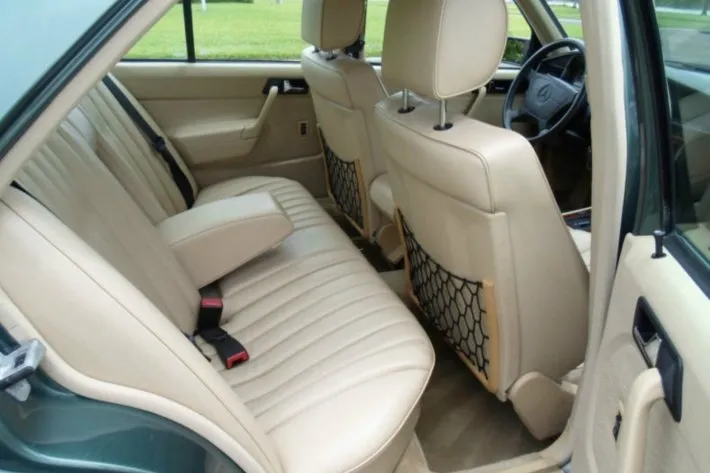
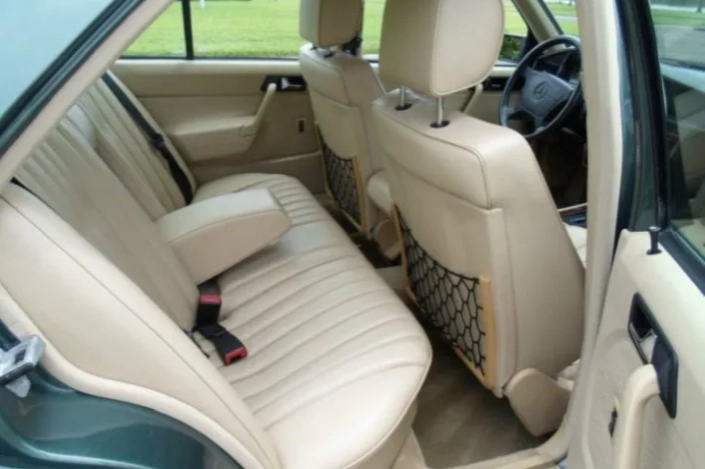
135

diff --git a/pic/ja_mb_img_c.html b/pic/ja_mb_img_c.html
@@ -376,7 +376,7 @@
 						</div>
 						<h5>Dimensions</h5>
 						<a href="full/c/w201_a.jpg"><img loading="lazy" src="style/c/w201_a.webp" alt="メルセデス,W201,190E,寸法" width="500" height="701"></a>
-						<a href="full/c/w201_i.jpg"><img loading="lazy" src="style/c/w201_i.webp" alt="メルセデス,W201,190E,内装" width="710" height="473"></a>
+						<a href="full/c/w201_i.jpg"><img loading="lazy" src="style/c/w201_i.webp" alt="メルセデス,W201,190E,内装" width="705" height="469"></a>
 					</section>
 				</div>
 				<div class="vmenu_off">

diff --git a/pic/mb_img_c.html b/pic/mb_img_c.html
@@ -375,7 +375,7 @@
 						</div>
 						<h5>Abmessungen</h5>
 						<a href="full/c/w201_a.jpg"><img loading="lazy" src="style/c/w201_a.webp" alt="Mercedes,W201,190E,Maße" width="500" height="701"></a>
-						<a href="full/c/w201_i.jpg"><img loading="lazy" src="style/c/w201_i.webp" alt="Mercedes,W201,190E,Innenansicht" width="710" height="473"></a>
+						<a href="full/c/w201_i.jpg"><img loading="lazy" src="style/c/w201_i.webp" alt="Mercedes,W201,190E,Innenansicht" width="705" height="469"></a>
 					</section>
 				</div>
 				<div class="vmenu_off">

diff --git a/pic/en_mb_img_c.html b/pic/en_mb_img_c.html
@@ -375,7 +375,7 @@
 						</div>
 						<h5>Dimensions</h5>
 						<a href="full/c/w201_a.jpg"><img loading="lazy" src="style/c/w201_a.webp" alt="Mercedes,W201,190E,dimensions" width="500" height="701"></a>
-						<a href="full/c/w201_i.jpg"><img loading="lazy" src="style/c/w201_i.webp" alt="Mercedes,W201,190E,Interior" width="710" height="473"></a>
+						<a href="full/c/w201_i.jpg"><img loading="lazy" src="style/c/w201_i.webp" alt="Mercedes,W201,190E,Interior" width="705" height="469"></a>
 					</section>
 				</div>
 				<div class="vmenu_off">
